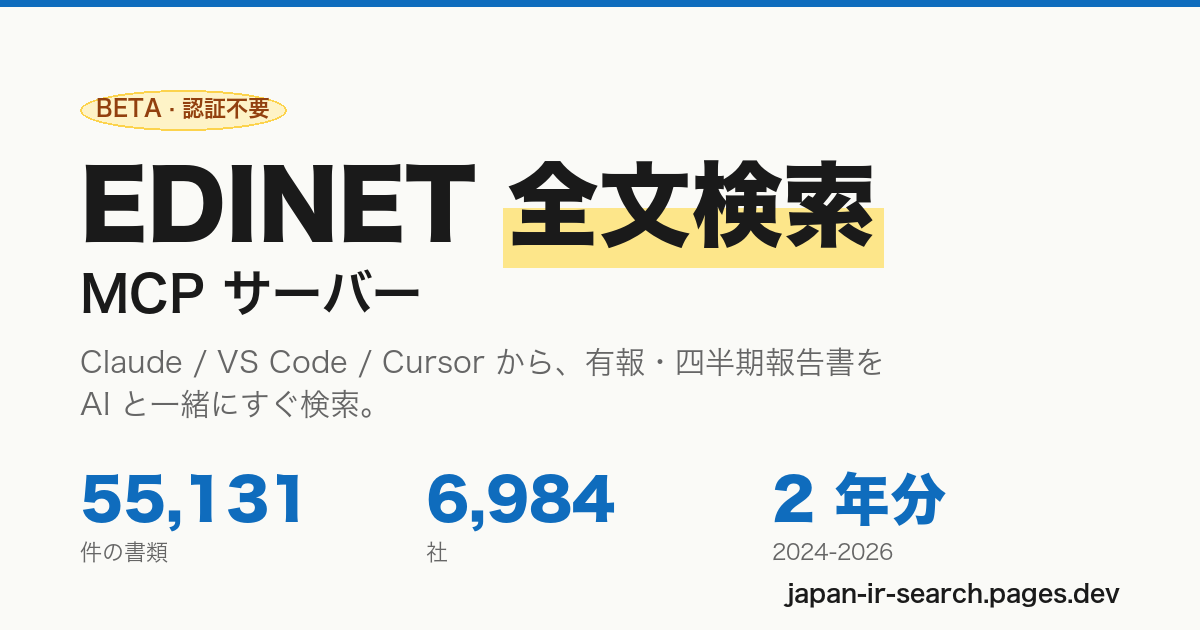
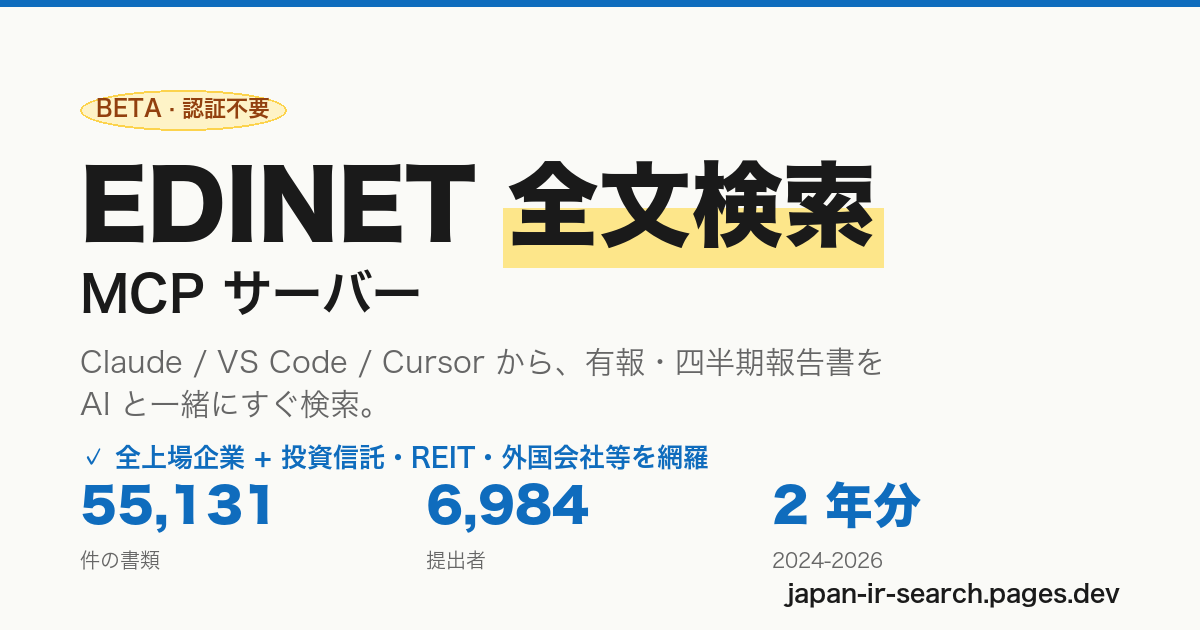
Clarify coverage: 全上場企業 + 投信・REIT・外国会社等 6,984 提出者

Changed region(s): [[0.0617, 0.6937, 0.5858, 0.9048], [0.6475, 0.754, 0.8017, 0.9048], [0.3392, 0.8746, 0.4008, 0.9048]]

diff --git a/docs/landing/index.html b/docs/landing/index.html
@@ -170,7 +170,7 @@ footer a{margin:0 12px}
 <section id="examples">
   <div class="container">
     <h2>こんな質問ができます</h2>
-    <p class="sub">AI に話しかけるだけ。裏で 6,300 社の有報を横断検索します。</p>
+    <p class="sub">AI に話しかけるだけ。裏で全上場企業 + 投信・REIT 等の有報を横断検索します。</p>
     <div class="examples">
       <div class="example">
         <div class="icon">🔍</div>
@@ -323,7 +323,7 @@ footer a{margin:0 12px}
       </details>
       <details>
         <summary>何件くらい入っていますか？</summary>
-        <p>直近2年分・全18種類の書類を収録しており、約 <strong>55,000 件 / 6,900 社</strong>のデータが検索対象です。日次バッチで新規開示分を追記しています。</p>
+        <p>直近2年分・全18種類の書類を収録しており、<strong>全上場企業 + 投信・REIT・外国会社など 6,984 の提出者 / 約 55,000 件</strong>が検索対象です。日次バッチで新規開示分を追記しています。</p>
       </details>
       <details>
         <summary>ChatGPT でも使えますか？</summary>

diff --git a/scripts/make_ogp.py b/scripts/make_ogp.py
@@ -74,15 +74,20 @@ def main() -> None:
     d.text((pad_x, y), "Claude / VS Code / Cursor から、有報・四半期報告書を", font=lead_f, fill=MUTED)
     y += 42
     d.text((pad_x, y), "AI と一緒にすぐ検索。", font=lead_f, fill=MUTED)
+    y += 56
+
+    # Coverage tagline
+    cov_f = font(FONT_BOLD, 26)
+    d.text((pad_x, y), "✓ 全上場企業 + 投資信託・REIT・外国会社等を網羅", font=cov_f, fill=ACCENT)
 
     # Stats row (bottom)
-    stats_y = 470
-    stat_num_f = font(FONT_HEAVY, 56)
-    stat_lbl_f = font(FONT_REG, 22)
+    stats_y = 480
+    stat_num_f = font(FONT_HEAVY, 48)
+    stat_lbl_f = font(FONT_REG, 20)
 
     stats = [
         ("55,131", "件の書類"),
-        ("6,984", "社"),
+        ("6,984", "提出者"),
         ("2 年分", "2024-2026"),
     ]
     col_w = (W - pad_x * 2) // 3
